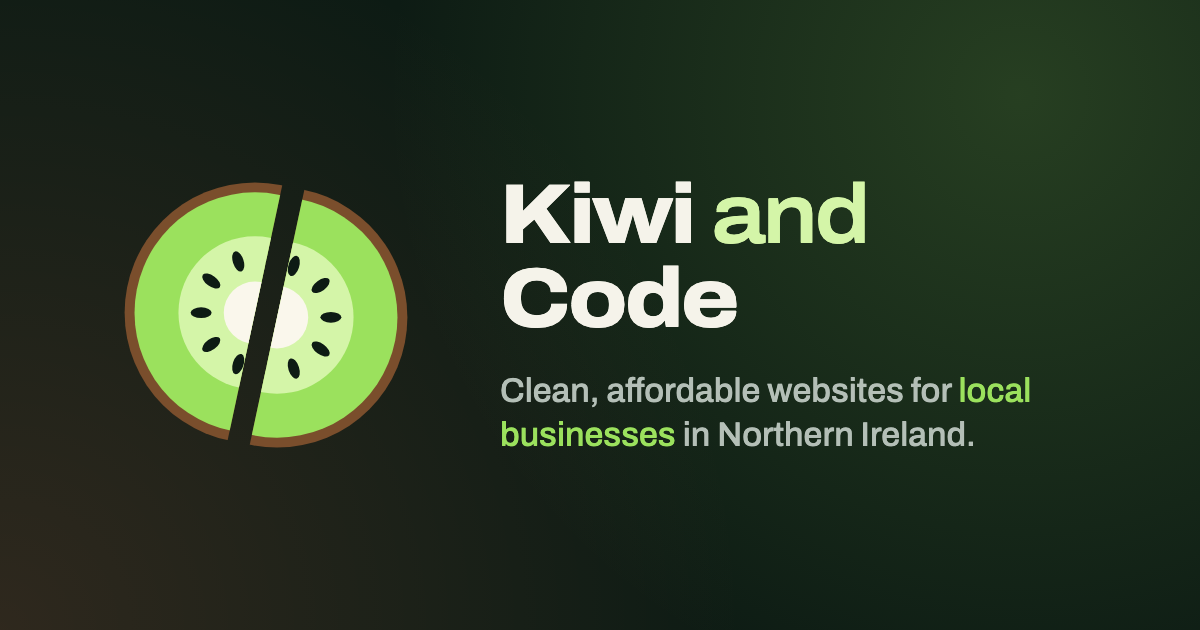
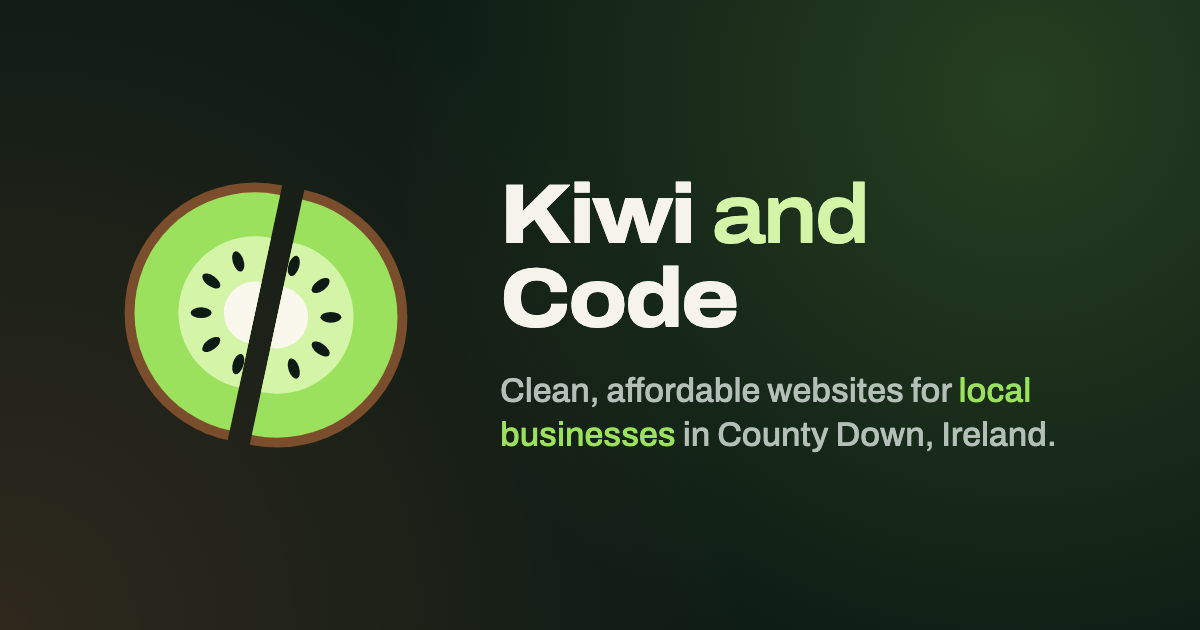
Tidy up wording, add a 404 page and fix audit findings
- Say County Down and Ireland instead of Crossgar and Northern Ireland,
  and Hi instead of Kia ora; redraw og-image with the new tagline
- Branded 404 page, and a noindex option on BaseLayout for it
- Social sharing tags on the example pages
- Accessibility fixes from axe: landmark for the example strip and a
  darker heading colour on the trainer example
- Drop an unused colour token and update the README

Changed region(s): [[0.5858, 0.6635, 0.8942, 0.7238]]

diff --git a/src/data/site.ts b/src/data/site.ts
@@ -6,7 +6,7 @@ export const site = {
   url: 'https://kiwiandcode.co.uk',
   owner: 'Marcus Davis',
   email: 'marcus@kiwiandcode.co.uk',
-  area: 'County Down, Northern Ireland',
+  area: 'County Down, Ireland',
 
   // Placeholder: set this to the full profile URL once the account exists,
   // e.g. 'https://www.instagram.com/kiwiandcode'. While it's null the footer
@@ -14,9 +14,9 @@ export const site = {
   instagram: null as string | null,
 
   // Default SEO text, used by any page that doesn't set its own.
-  title: 'Kiwi and Code | Affordable websites for small businesses in Northern Ireland',
+  title: 'Kiwi and Code | Affordable websites for small businesses in County Down, Ireland',
   description:
-    'Clean, fast, affordable websites for small and local businesses in County Down and across Northern Ireland. Built by Marcus Davis, a local developer you can talk to.',
+    'Clean, fast, affordable websites for small and local businesses in County Down, Ireland. Built by Marcus Davis, a local developer you can talk to.',
   ogImage: '/og-image.png',
 };
 

diff --git a/src/styles/tokens.css b/src/styles/tokens.css
@@ -17,7 +17,6 @@
   --mist: #b4bfb7; /* secondary text on dark (9.4:1) */
   --stone: #525a53; /* secondary text on paper (6.6:1) */
   --coral: #ff7a59; /* warm accent on dark (6.9:1) and glows */
-  --coral-deep: #b23e1b; /* warm accent on paper (5.4:1) */
   --peach: #ffb59e; /* code strings on dark (10.4:1) */
 
   /* ---- Type ---- */

diff --git a/README.md b/README.md
@@ -1,6 +1,6 @@
 # Kiwi and Code
 
-The website for [Kiwi and Code](https://kiwiandcode.co.uk): clean, affordable websites for small and local businesses in County Down and across Northern Ireland.
+The website for [Kiwi and Code](https://kiwiandcode.co.uk): clean, affordable websites for small and local businesses in County Down, Ireland.
 
 Built with [Astro](https://astro.build) as a static site, hosted on Cloudflare Pages. The homepage ships almost no JavaScript (just a scroll-reveal helper and the "copy email" button), and the fonts are self-hosted.
 
@@ -34,6 +34,7 @@ src/
   styles/tokens.css         colours, fonts, sizes (the design system)
   styles/global.css         base styles, buttons, section themes, animations
   layouts/BaseLayout.astro  <head>, SEO tags, header, footer, shared scripts
+  layouts/ExampleLayout.astro  shell for the example sites (the "made up" strip, noindex)
   lib/kiwiMark.ts           geometry of the logo mark (kiwi slice cut by a "/")
   components/
     LogoMark.astro          the logo mark as SVG (header, hero, footer)
@@ -42,7 +43,11 @@ src/
   pages/
     index.astro             the homepage
     favicon.svg.ts          builds /favicon.svg from the logo geometry
-    examples/               example sites (bakery, personal trainer)
+    404.astro               "page not found" page (Cloudflare serves it automatically)
+    examples/               made-up example sites, each with its own branding:
+      bakery.astro            Little Loaf Bakehouse
+      personal-trainer.astro  Caitlin, personal trainer
+      nails-and-beauty.astro  Maison Lacquer, nail and beauty studio
 scripts/
   make-icons.mjs            renders the PNG icons (needs Google Chrome)
 ```
@@ -52,6 +57,8 @@ scripts/
 - **Text on the homepage:** each section's words are at the top of its file in `src/components/home/`.
 - **Email, Instagram, SEO title or description:** `src/data/site.ts`. Set `instagram` to your profile URL and the footer link appears.
 - **Your photo:** save it as `src/assets/marcus.jpg` and follow the steps at the top of `src/components/home/About.astro`.
+- **Logo:** the mark's shape and colours live in `src/lib/kiwiMark.ts`. After changing it, run `npm run icons` to redraw the favicon PNGs, `logo-square.png` (for Instagram) and `og-image.png`.
+- **Example sites:** each is one file in `src/pages/examples/`, with its words and prices at the top. The homepage cards are in `src/components/home/ExamplesTeaser.astro`.
 - **Colours:** `src/styles/tokens.css`. Check any new text colour for at least 4.5:1 contrast ([WebAIM checker](https://webaim.org/resources/contrastchecker/)).
 
 ## Adding pages later
